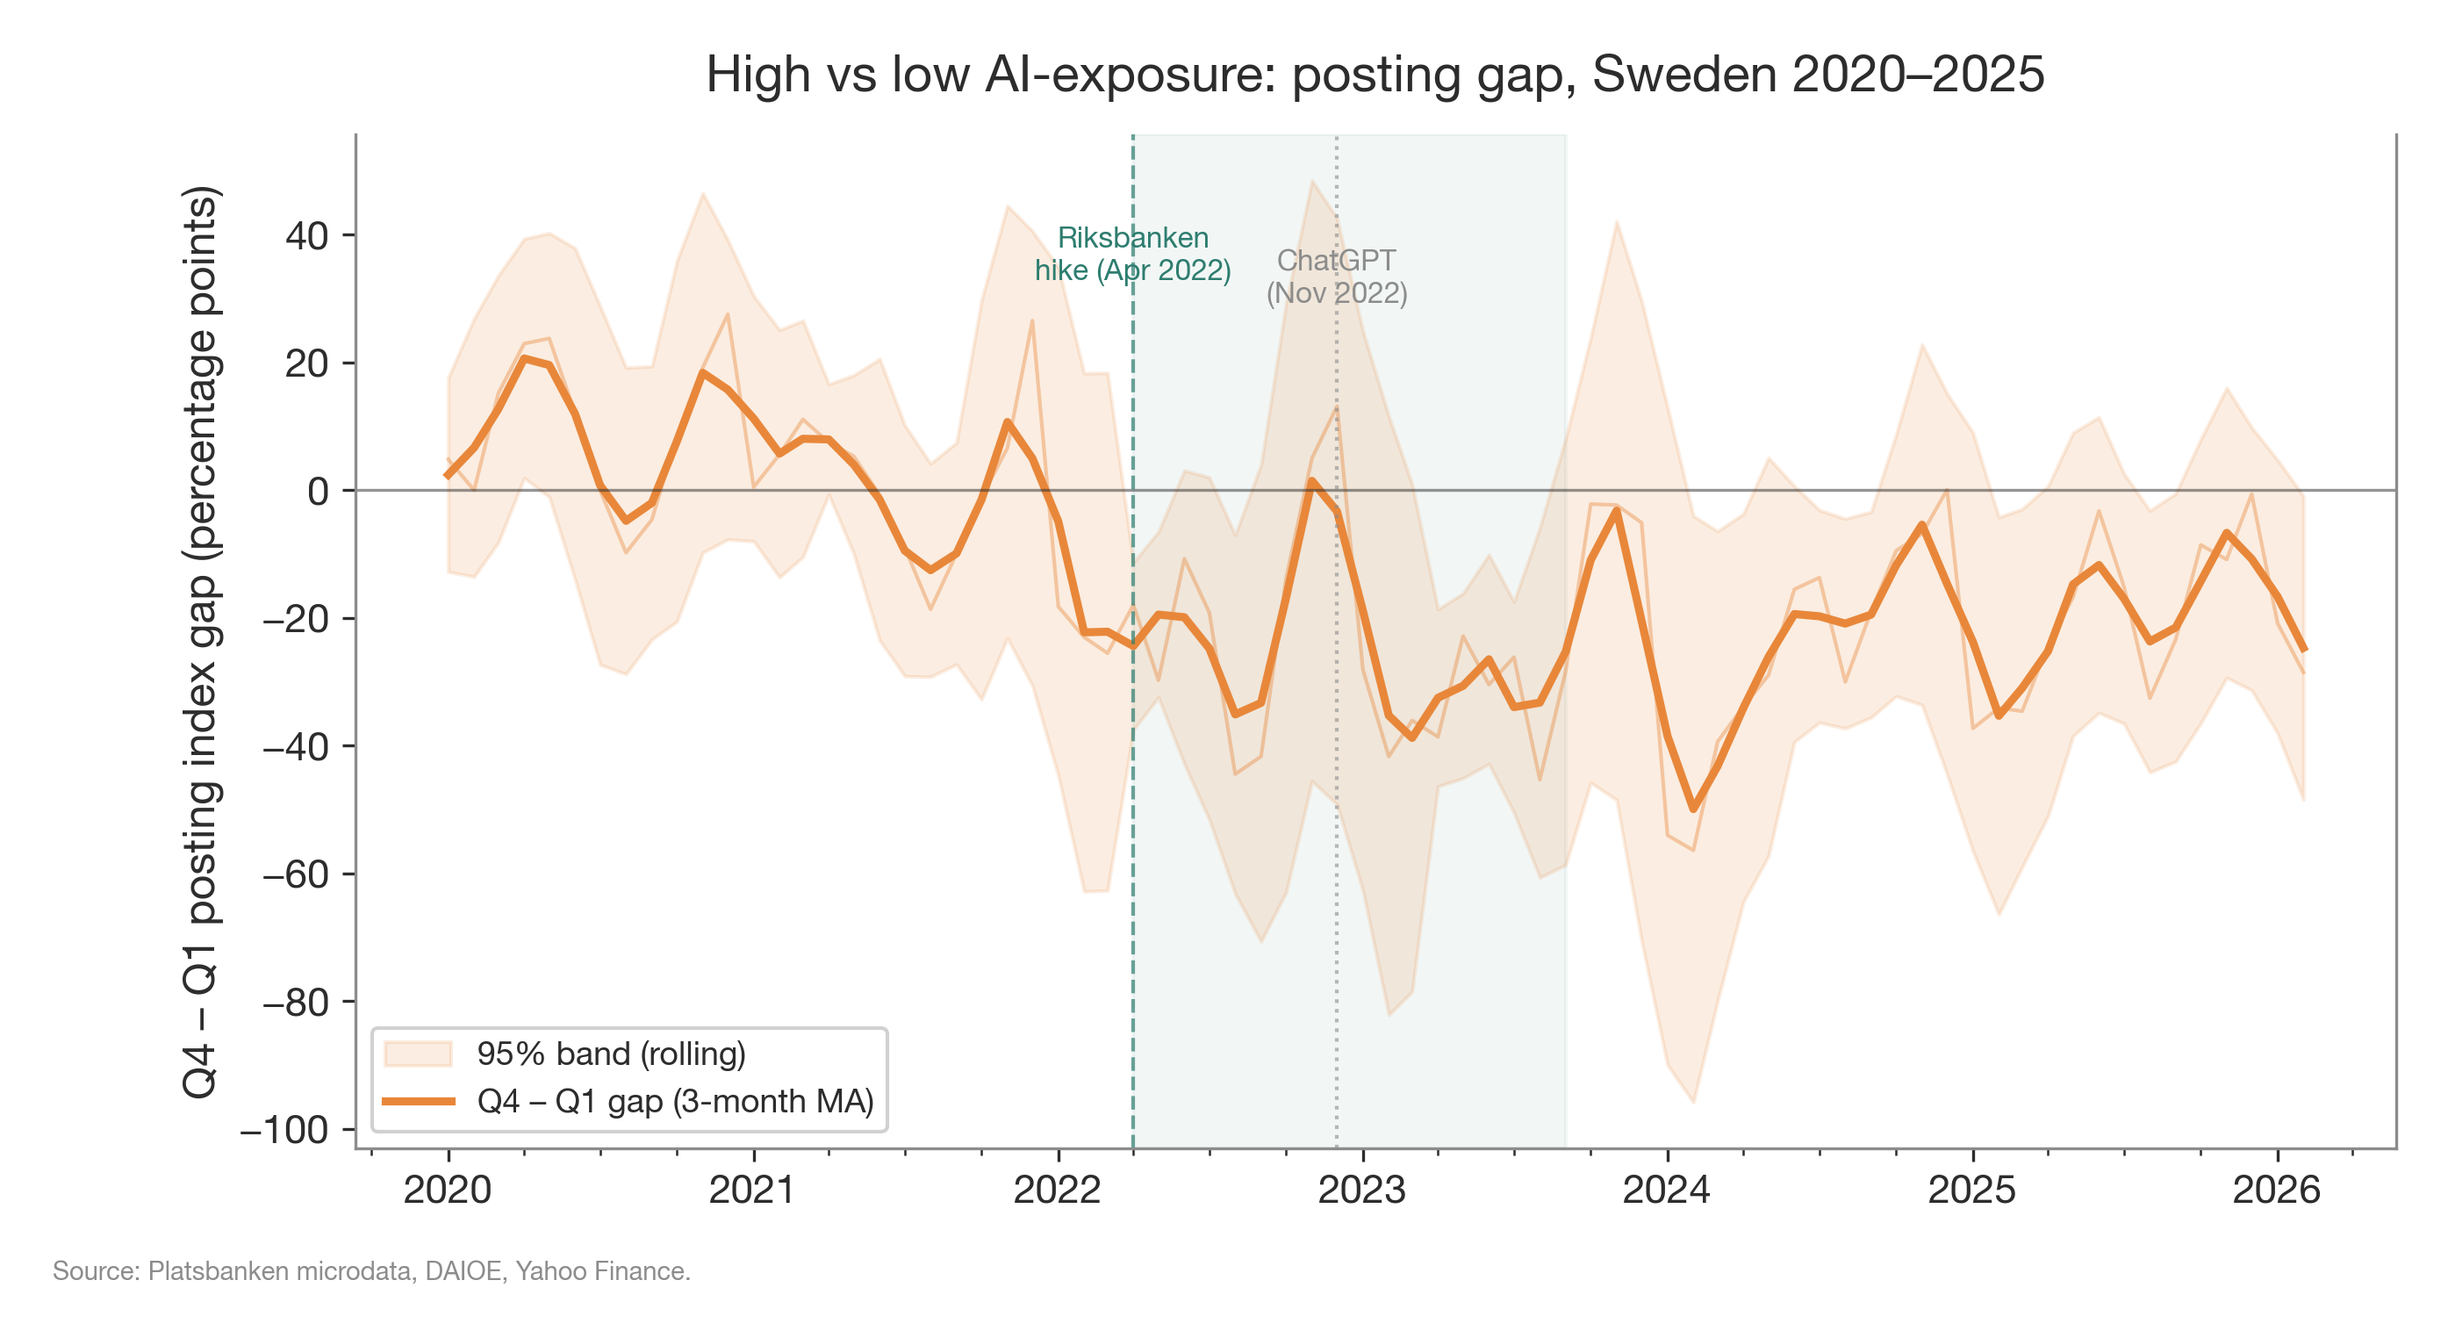
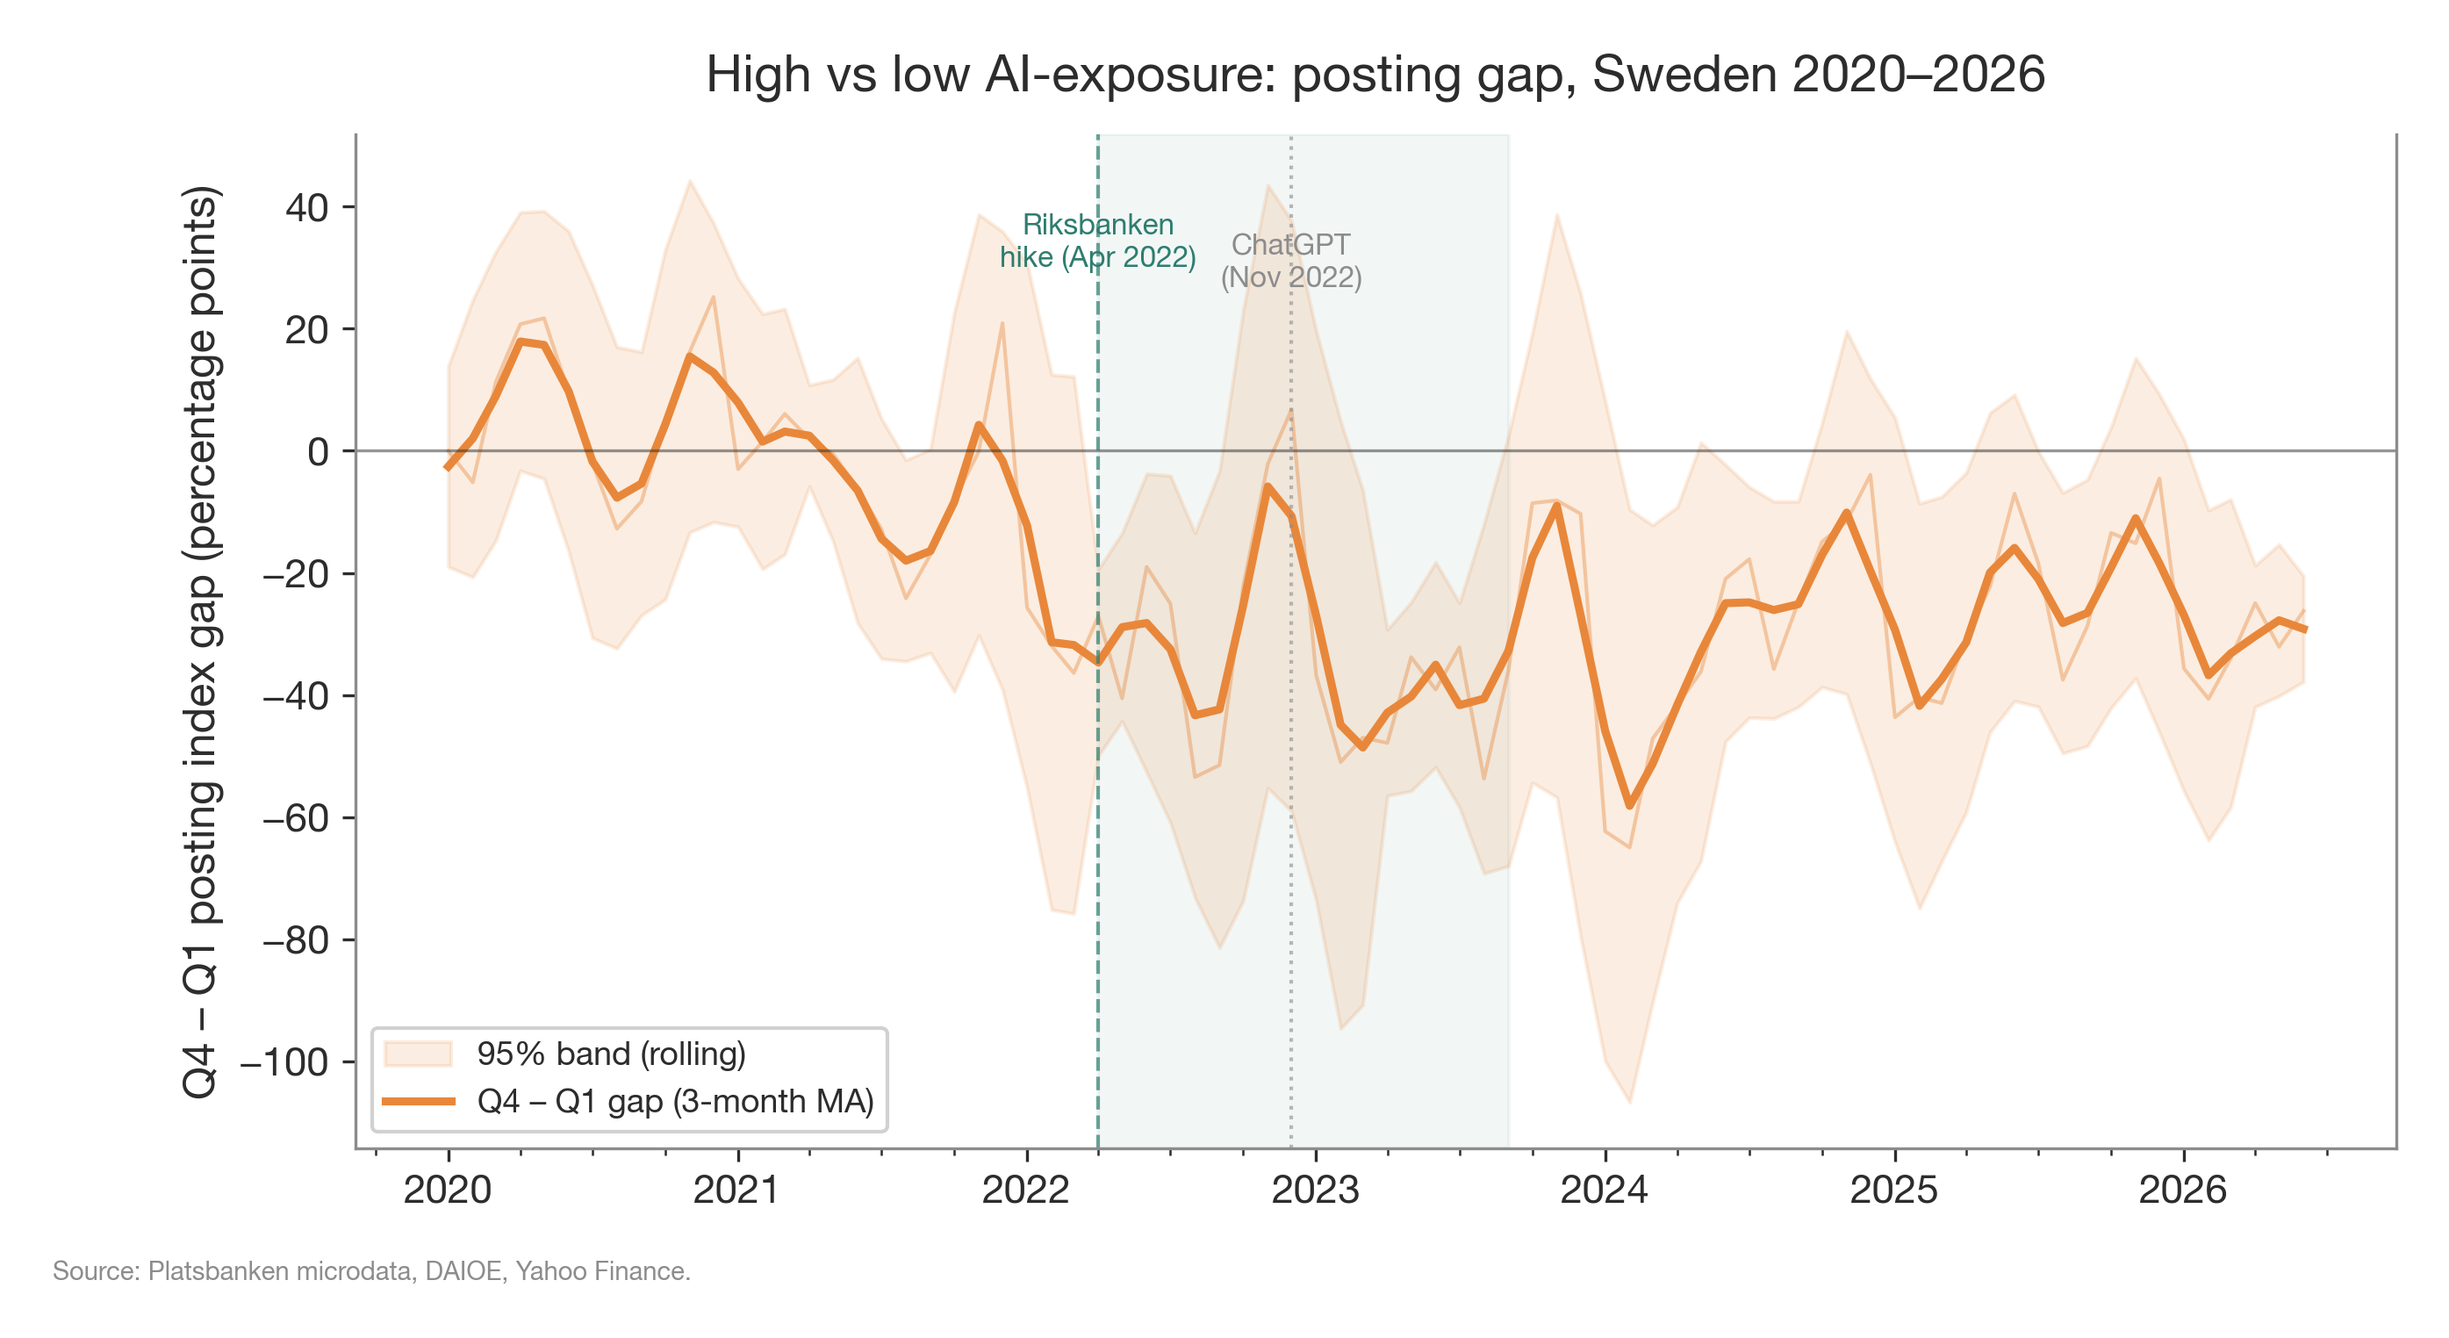
src/: read the bulk-sourced postings panel, and enforce an upper cutoff
The manuscript's own figure scripts still built 2026 from a JobStream
snapshot. JobStream returns ads CURRENTLY PUBLISHED rather than
everything ever published, so a recent month is undercounted as its ads
expire: the 24 February build shows 40,733 ads in December 2025 and
10,790 in January 2026, an 85 per cent drop no labour market produces.
That is the tail that nearly reached the SSR deck in August, and
06_figures_tables applied a 2020 lower bound in three places and no
upper bound at all, so any figure it drew carried it to the right edge.

The revision had already rebuilt the panel from JobTech's closed-quarter
bulk files as postings_daioe_merged_extended.csv, which runs to 2026-06
with sensible volumes, but src/ was never repointed and the two indexed
files were never regenerated from it.

config.py now owns the source and the cutoff: load_postings_merged
prefers the extended panel and warns when it falls back,
load_postings_indexed DERIVES the quartile and total series from it
rather than reading the stale 24 February files, and
load_postings_ssyk4 applies the cutoff to the pre-merge counts. Nine
call sites across seven scripts are repointed, so the rule lives in one
place instead of nine.

Figure titles now derive their span from POSTINGS_END. They said
"Sweden 2020-2025" while the regenerated data reached June 2026, which
is the same class of defect one layer up.

Figures regenerated: the right edge of fig1_scary_chart now runs to
mid-2026 without the cliff.
[…]

diff --git a/src/config.py b/src/config.py
@@ -137,3 +137,96 @@ def set_rcparams():
 
 # Apply on import
 set_rcparams()
+
+
+# ----------------------------------------------------------------------
+# POSTINGS SOURCE AND CUTOFF (added 21 Sep 2026)
+#
+# Two defects made the manuscript's own figures carry a false 2026
+# collapse, and both are fixed here rather than in nine call sites.
+#
+# SOURCE. 01_download fetches a JobStream /v2/snapshot and 02_process
+# splices it onto the bulk series. JobStream returns ads CURRENTLY
+# PUBLISHED, not everything ever published, so a recent month is
+# undercounted as its ads expire: the 24 February build shows 40,733 ads
+# in December 2025 and 10,790 in January 2026, an 85 per cent drop no
+# labour market produces. JobTech now publishes closed-quarter bulk
+# files, and the revision rebuilt the merged panel from them as
+# postings_daioe_merged_extended.csv, which runs to 2026-06 with
+# sensible volumes. Prefer it wherever it exists.
+#
+# CUTOFF. 06_figures_tables applied a 2020-01-01 lower bound in three
+# places and NO upper bound, so any stale input reached the right edge
+# of a figure. POSTINGS_END is now enforced by the loaders below.
+# ----------------------------------------------------------------------
+
+POSTINGS_END = "2026-06"          # last month any posting series may show
+
+_MERGED_PREFERRED = "postings_daioe_merged_extended.csv"
+_MERGED_FALLBACK = "postings_daioe_merged.csv"
+
+
+def load_postings_merged(end: str = None):
+    """The merged SSYK4 x month panel, bulk-sourced where available."""
+    import pandas as pd
+    path = PROCESSED / _MERGED_PREFERRED
+    if not path.exists():
+        path = PROCESSED / _MERGED_FALLBACK
+        print(f"  WARNING: {_MERGED_PREFERRED} missing; falling back to "
+              f"{_MERGED_FALLBACK}, which may carry a JobStream tail")
+    df = pd.read_csv(path)
+    end = end or POSTINGS_END
+    return df[df["year_month"] <= end].copy()
+
+
+def _index_to_base(df, group_cols, base_month="2020-01"):
+    """n_ads indexed to 100 at base_month, matching 04's own construction."""
+    import pandas as pd
+    out = df.copy()
+    out["date"] = pd.to_datetime(out["year_month"] + "-01")
+    keys = group_cols + ["year_month", "date"]
+    agg = (out.groupby(keys, as_index=False)
+           .agg(n_ads=("n_ads", "sum"),
+                n_vacancies=("n_vacancies", "sum"))
+           if "n_vacancies" in out.columns else
+           out.groupby(keys, as_index=False).agg(n_ads=("n_ads", "sum")))
+    if group_cols:
+        base = (agg[agg["year_month"] == base_month]
+                .set_index(group_cols)["n_ads"])
+        agg["ads_idx"] = agg.apply(
+            lambda r: 100.0 * r["n_ads"] / base.loc[tuple(r[c] for c in
+                                                          group_cols)
+                                                    if len(group_cols) > 1
+                                                    else r[group_cols[0]]],
+            axis=1)
+    else:
+        b = float(agg.loc[agg["year_month"] == base_month, "n_ads"].iloc[0])
+        agg["ads_idx"] = 100.0 * agg["n_ads"] / b
+    return agg.sort_values("date").reset_index(drop=True)
+
+
+def load_postings_indexed(by_quartile: bool = True, end: str = None):
+    """
+    The indexed posting series, DERIVED from the merged panel.
+
+    The stored postings_quartile_indexed.csv and postings_total_indexed.csv
+    are the 24 February build and were never regenerated from the bulk
+    quarters, so they still end at the JobStream tail. Deriving them here
+    keeps one source of truth.
+    """
+    m = load_postings_merged(end=end)
+    return _index_to_base(m, ["exposure_quartile"] if by_quartile else [])
+
+
+def load_postings_ssyk4(end: str = None):
+    """
+    The pre-merge SSYK4 x month counts, with the same cutoff.
+
+    This file is also a 24 February build and has no extended twin, so
+    the cutoff is the only protection available until 02_process stops
+    splicing the JobStream snapshot.
+    """
+    import pandas as pd
+    df = pd.read_csv(PROCESSED / "postings_ssyk4_monthly.csv")
+    end = end or POSTINGS_END
+    return df[df["year_month"] <= end].copy()

diff --git a/src/06_figures_tables.py b/src/06_figures_tables.py
@@ -27,7 +27,8 @@ from config import (
     DARK_TEXT, CREAM, Q_COLORS,
     RIKSBANKEN_HIKE, CHATGPT_LAUNCH, BASE_MONTH,
     DAIOE_REF_YEAR, set_rcparams,
-)
+                    load_postings_merged, load_postings_indexed,
+                    POSTINGS_END)
 
 import pandas as pd
 import numpy as np
@@ -99,7 +100,7 @@ def fig_scary_chart():
 
     # Load data
     omxs = pd.read_csv(PROCESSED / "omxs30_monthly.csv", index_col=0, parse_dates=True)
-    quartile = pd.read_csv(PROCESSED / "postings_quartile_indexed.csv")
+    quartile = load_postings_indexed(by_quartile=True)
     quartile["date"] = pd.to_datetime(quartile["date"])
 
     # ── Fix 1: Trim to Jan 2020 onward ──
@@ -183,7 +184,7 @@ def fig_scary_chart():
 
     # Title
     ax1.set_title(
-        "Stock market vs job postings by AI exposure, Sweden 2020–2025",
+        f"Stock market vs job postings by AI exposure, Sweden 2020–{POSTINGS_END[:4]}",
         fontsize=14, fontweight="bold", pad=12,
     )
 
@@ -218,7 +219,7 @@ def fig_exposure_gap():
     """
     print("Generating Figure 2: Exposure gap...")
 
-    quartile = pd.read_csv(PROCESSED / "postings_quartile_indexed.csv")
+    quartile = load_postings_indexed(by_quartile=True)
     quartile["date"] = pd.to_datetime(quartile["date"])
 
     # Trim to Jan 2020 onward
@@ -273,7 +274,7 @@ def fig_exposure_gap():
 
     ax.set_ylabel("Q4 – Q1 posting index gap (percentage points)", fontsize=12)
     ax.set_title(
-        "High vs low AI-exposure: posting gap, Sweden 2020–2025",
+        f"High vs low AI-exposure: posting gap, Sweden 2020–{POSTINGS_END[:4]}",
         fontsize=14, fontweight="bold", pad=12,
     )
 
@@ -300,7 +301,7 @@ def fig_sweden_vs_us():
     print("Generating Figure A1: Sweden vs US comparison...")
 
     omxs = pd.read_csv(PROCESSED / "omxs30_monthly.csv", index_col=0, parse_dates=True)
-    postings = pd.read_csv(PROCESSED / "postings_total_indexed.csv")
+    postings = load_postings_indexed(by_quartile=False)
     postings["date"] = pd.to_datetime(postings["date"])
     postings = postings.set_index("date")
 
@@ -389,7 +390,7 @@ def fig_quartile_panels():
     """Four-panel figure showing each quartile's posting trend individually."""
     print("Generating Figure A2: Quartile panels...")
 
-    quartile = pd.read_csv(PROCESSED / "postings_quartile_indexed.csv")
+    quartile = load_postings_indexed(by_quartile=True)
     quartile["date"] = pd.to_datetime(quartile["date"])
 
     # Trim to Jan 2020 onward
@@ -442,7 +443,7 @@ def fig_omxspi_scary_chart():
 
     omxspi = pd.read_csv(omxspi_path, index_col=0, parse_dates=True)
     omxs30 = pd.read_csv(PROCESSED / "omxs30_monthly.csv", index_col=0, parse_dates=True)
-    postings = pd.read_csv(PROCESSED / "postings_total_indexed.csv")
+    postings = load_postings_indexed(by_quartile=False)
     postings["date"] = pd.to_datetime(postings["date"])
     postings = postings.set_index("date")
 

diff --git a/src/07_robustness.py b/src/07_robustness.py
@@ -24,7 +24,7 @@ from config import (
     RAW, PROCESSED, TABDIR, FIGDIR,
     RIKSBANKEN_HIKE, CHATGPT_LAUNCH, DAIOE_REF_YEAR,
     DARK_BLUE, ORANGE, TEAL, GRAY, set_rcparams,
-)
+                    load_postings_merged, load_postings_indexed, load_postings_ssyk4)
 
 import pandas as pd
 import numpy as np
@@ -35,7 +35,7 @@ set_rcparams()
 
 def load_data():
     """Load the main datasets needed for robustness checks."""
-    merged = pd.read_csv(PROCESSED / "postings_daioe_merged.csv")
+    merged = load_postings_merged()
     daioe_raw = pd.read_csv(RAW / "daioe_ssyk2012.csv", sep="\t")
     return merged, daioe_raw
 
@@ -124,7 +124,7 @@ def robustness_allapps(merged, daioe_raw):
     daioe_ref["high_allapps"] = (daioe_ref["pctl_rank_allapps"] > q75).astype(int)
 
     # Re-merge
-    postings = pd.read_csv(PROCESSED / "postings_ssyk4_monthly.csv")
+    postings = load_postings_ssyk4()
     postings["ssyk4"] = postings["ssyk4"].astype(str).str.zfill(4)
     daioe_ref["ssyk4"] = daioe_ref["ssyk4"].astype(str).str.zfill(4)
     m = postings.merge(daioe_ref, on="ssyk4", how="inner")
@@ -246,7 +246,7 @@ def robustness_language_modelling(merged, daioe_raw):
     q75 = daioe_ref["pctl_rank_lngmod"].quantile(0.75)
     daioe_ref["high_lngmod"] = (daioe_ref["pctl_rank_lngmod"] > q75).astype(int)
 
-    postings = pd.read_csv(PROCESSED / "postings_ssyk4_monthly.csv")
+    postings = load_postings_ssyk4()
     postings["ssyk4"] = postings["ssyk4"].astype(str).str.zfill(4)
     daioe_ref["ssyk4"] = daioe_ref["ssyk4"].astype(str).str.zfill(4)
     m = postings.merge(daioe_ref, on="ssyk4", how="inner")

diff --git a/src/10_eloundou_robustness.py b/src/10_eloundou_robustness.py
@@ -21,7 +21,7 @@ from pathlib import Path
 
 sys.path.insert(0, str(Path(__file__).resolve().parent))
 
-from config import RAW, PROCESSED, TABDIR, RIKSBANKEN_HIKE, CHATGPT_LAUNCH
+from config import RAW, PROCESSED, TABDIR, RIKSBANKEN_HIKE, CHATGPT_LAUNCH, load_postings_merged, load_postings_indexed
 
 import pandas as pd
 import numpy as np
@@ -361,7 +361,7 @@ def load_daioe_results() -> dict:
     from importlib import import_module
     analysis = import_module("05_analysis")
 
-    merged = pd.read_csv(PROCESSED / "postings_daioe_merged.csv")
+    merged = load_postings_merged()
     panel = analysis.prepare_panel(merged)
     results = analysis.run_did_regressions(panel)
 
@@ -542,7 +542,7 @@ def main():
 
     # Step 4: Re-run DiD
     print("\n--- Step 4a: Eloundou DiD regressions ---")
-    merged = pd.read_csv(PROCESSED / "postings_daioe_merged.csv")
+    merged = load_postings_merged()
     el_panel = prepare_eloundou_panel(merged, ssyk_scores)
     el_results = run_eloundou_regressions(el_panel)
 

diff --git a/src/21_halfyear_posting_es.py b/src/21_halfyear_posting_es.py
@@ -23,7 +23,7 @@ from config import (
     PROCESSED, FIGDIR, TABDIR,
     RIKSBANKEN_HIKE, CHATGPT_LAUNCH,
     DARK_BLUE, ORANGE, TEAL, GRAY, DARK_TEXT, set_rcparams,
-)
+                    load_postings_merged, load_postings_indexed)
 
 import pandas as pd
 import numpy as np
@@ -60,7 +60,7 @@ def run_halfyear_event_study():
     print("Running half-year event study for postings...")
 
     # Load merged panel
-    merged = pd.read_csv(PROCESSED / "postings_daioe_merged.csv")
+    merged = load_postings_merged()
     merged["date"] = pd.to_datetime(merged["year_month"] + "-01")
     merged["halfyear"] = assign_halfyear(merged["date"])
 

diff --git a/src/05_analysis.py b/src/05_analysis.py
@@ -28,7 +28,7 @@ from pathlib import Path
 
 sys.path.insert(0, str(Path(__file__).resolve().parent))
 
-from config import PROCESSED, TABDIR, RIKSBANKEN_HIKE, CHATGPT_LAUNCH
+from config import PROCESSED, TABDIR, RIKSBANKEN_HIKE, CHATGPT_LAUNCH, load_postings_merged, load_postings_indexed
 
 import pandas as pd
 import numpy as np
@@ -381,7 +381,7 @@ def main():
     print("=" * 70)
 
     # Load merged data
-    merged = pd.read_csv(PROCESSED / "postings_daioe_merged.csv")
+    merged = load_postings_merged()
     daioe = pd.read_csv(PROCESSED / "daioe_quartiles.csv")
 
     # Summary statistics

diff --git a/src/09_remote_work_robustness.py b/src/09_remote_work_robustness.py
@@ -36,7 +36,7 @@ from config import (
     RIKSBANKEN_HIKE, CHATGPT_LAUNCH,
     DARK_BLUE, ORANGE, TEAL, GRAY, LIGHT_GRAY,
     Q_COLORS, set_rcparams,
-)
+                    load_postings_merged, load_postings_indexed)
 
 import pandas as pd
 import numpy as np
@@ -346,7 +346,7 @@ def main():
 
     # Load project data
     print("\n5. Loading Platsbanken + DAIOE data...")
-    merged = pd.read_csv(PROCESSED / "postings_daioe_merged.csv")
+    merged = load_postings_merged()
     daioe = pd.read_csv(PROCESSED / "daioe_quartiles.csv")
     print(f"  {len(merged):,} occupation×month rows")
 

diff --git a/src/08_interest_rate_exposure.py b/src/08_interest_rate_exposure.py
@@ -37,7 +37,7 @@ from config import (
     RIKSBANKEN_HIKE, CHATGPT_LAUNCH,
     DARK_BLUE, ORANGE, TEAL, GRAY, LIGHT_GRAY,
     Q_COLORS, set_rcparams,
-)
+                    load_postings_merged, load_postings_indexed)
 
 import pandas as pd
 import numpy as np
@@ -330,7 +330,7 @@ def main():
     print("=" * 70)
 
     # Load data
-    merged = pd.read_csv(PROCESSED / "postings_daioe_merged.csv")
+    merged = load_postings_merged()
     daioe = pd.read_csv(PROCESSED / "daioe_quartiles.csv")
 
     print(f"Input: {len(merged):,} occupation×month rows")

diff --git a/tables/top_bottom_occupations.tex b/tables/top_bottom_occupations.tex
@@ -23,7 +23,7 @@ SSYK & Occupation & GenAI pctl \\
 2653 & Dancers and choreographers & 2.0 \\
 8350 & Ships' deck crew and related workers & 1.8 \\
 7113 & Concrete workers & 1.5 \\
-8341 & Agricultural and forestry machinery operators & 1.3 \\
+8341 & Agricultural and forestry machinery oper & 1.3 \\
 9310 & Construction labourers & 1.1 \\
 8342 & Earth-moving machinery operators & 0.8 \\
 8111 & Miners and quarry workers & 0.6 \\
